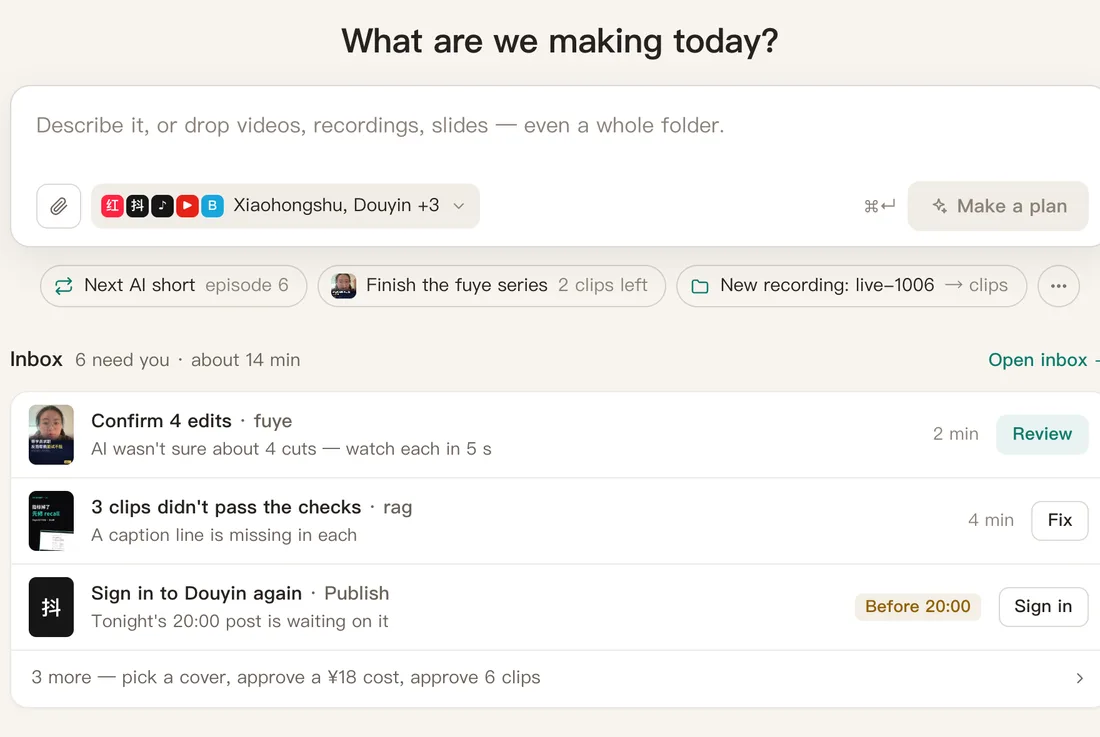
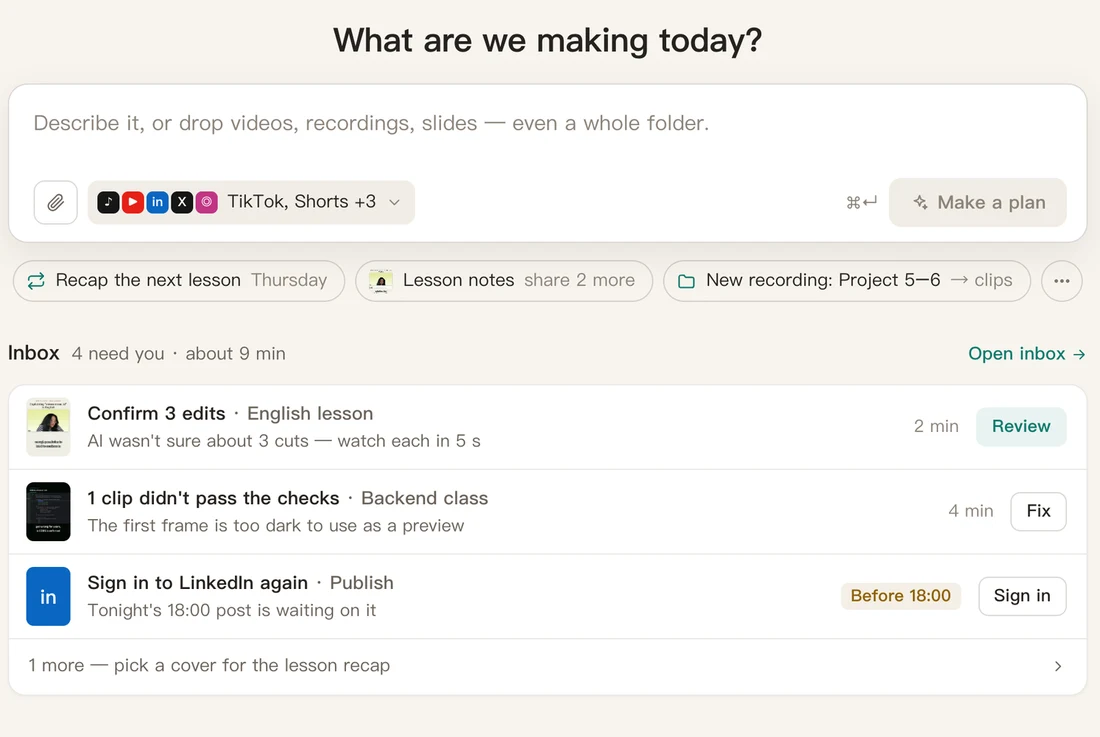
feat(site): show the english demo batch on english pages

diff --git a/apps/site/src/content/usecases.ts b/apps/site/src/content/usecases.ts
@@ -47,7 +47,7 @@ const DATA: Record<UseCaseSlug, Record<Lang, UseCase>> = {
       ],
       faq: [
         { q: 'Does it work with audio-only podcasts?', a: 'Reelfold is built for video. For an audio-only show you need a video track first, such as a still image or a recorded camera feed.' },
-        { q: 'How long can the episode be?', a: 'Long recordings are the point. The batch on our home page started from a 72-minute recording and produced 24 clips.' },
+        { q: 'How long can the episode be?', a: 'Long recordings are the point. The batch on our home page started from a 124-minute recording and produced 9 clips.' },
         { q: 'Can it handle two speakers?', a: 'Yes. Clips can use a vertical, side-by-side or landscape layout, and faces or name labels can be masked if a guest wants that.' },
       ],
       cta: 'Clip your next episode on your own Mac.',
@@ -107,7 +107,7 @@ const DATA: Record<UseCaseSlug, Record<Lang, UseCase>> = {
       ],
       faq: [
         { q: 'Et les podcasts audio seulement ?', a: 'Reelfold est conçu pour la vidéo. Pour une émission audio, il faut d’abord une piste vidéo, par exemple une image fixe ou un plan filmé.' },
-        { q: 'Quelle durée d’épisode ?', a: 'Les longs enregistrements sont justement sa raison d’être. Le lot de la page d’accueil partait d’un enregistrement de 72 minutes et a donné 24 clips.' },
+        { q: 'Quelle durée d’épisode ?', a: 'Les longs enregistrements sont justement sa raison d’être. Le lot de la page d’accueil partait d’un enregistrement de 124 minutes et a donné 9 clips.' },
         { q: 'Et avec deux intervenants ?', a: 'Oui. Les clips peuvent être en vertical, côte à côte ou en paysage, et les visages ou noms d’un invité peuvent être masqués s’il le souhaite.' },
       ],
       cta: 'Découpez votre prochain épisode sur votre Mac.',
@@ -137,7 +137,7 @@ const DATA: Record<UseCaseSlug, Record<Lang, UseCase>> = {
       ],
       faq: [
         { q: '¿Sirve para podcasts solo de audio?', a: 'Reelfold está hecho para video. En un programa solo de audio hace falta primero una pista de video, como una imagen fija o una cámara grabada.' },
-        { q: '¿Cuánto puede durar el episodio?', a: 'Las grabaciones largas son justo su razón de ser. El lote de la página de inicio partió de una grabación de 72 minutos y dio 24 clips.' },
+        { q: '¿Cuánto puede durar el episodio?', a: 'Las grabaciones largas son justo su razón de ser. El lote de la página de inicio partió de una grabación de 124 minutos y dio 9 clips.' },
         { q: '¿Funciona con dos personas hablando?', a: 'Sí. Los clips pueden ir en vertical, lado a lado o en horizontal, y se pueden ocultar caras o rótulos con nombre si un invitado lo pide.' },
       ],
       cta: 'Corta tu próximo episodio en tu propio Mac.',
@@ -292,10 +292,10 @@ const DATA: Record<UseCaseSlug, Record<Lang, UseCase>> = {
       ],
       stepsT: 'A real example',
       steps: [
-        { t: '72 minutes in', b: 'One recorded lecture on retrieval-augmented generation, screen share plus voice.' },
-        { t: '24 clips planned', b: 'Each about a minute, picked for one clear point, with the off-topic parts left out.' },
-        { t: '96 files out', b: 'Four formats per clip: Xiaohongshu 3:4 and 9:16, Douyin and YouTube Shorts.' },
-        { t: '21 of 24 passed', b: 'Three were flagged for a person to check. The AI cost for the whole run was $0.73.' },
+        { t: '124 minutes in', b: 'One recorded backend class in English (auth, JWT, CORS, databases), screen share plus voice.' },
+        { t: '9 clips planned', b: 'Each about a minute, picked for one clear point, with the off-topic parts left out.' },
+        { t: '27 files out', b: 'Three formats per clip: YouTube Shorts, TikTok and Instagram Reels.' },
+        { t: '8 of 9 passed', b: 'One was flagged for a person to check. The AI cost for the whole run was $0.29.' },
       ],
       faq: [
         { q: 'Can I keep a long version too?', a: 'Yes. The same recording can become a cut course video with chapters as well as the short episodes.' },
@@ -352,10 +352,10 @@ const DATA: Record<UseCaseSlug, Record<Lang, UseCase>> = {
       ],
       stepsT: 'Un exemple réel',
       steps: [
-        { t: '72 minutes en entrée', b: 'Un cours enregistré sur le RAG (génération augmentée par la recherche), partage d’écran et voix.' },
-        { t: '24 clips planifiés', b: 'Environ une minute chacun, choisis pour une idée claire, sans les passages hors sujet.' },
-        { t: '96 fichiers en sortie', b: 'Quatre formats par clip : Xiaohongshu 3:4 et 9:16, Douyin et YouTube Shorts.' },
-        { t: '21 sur 24 validés', b: 'Trois ont été signalés pour une vérification humaine. Coût d’IA du lot entier : 0,73 $.' },
+        { t: '124 minutes en entrée', b: 'Un cours de backend enregistré en anglais (authentification, JWT, CORS, bases de données), partage d’écran et voix.' },
+        { t: '9 clips planifiés', b: 'Environ une minute chacun, choisis pour une idée claire, sans les passages hors sujet.' },
+        { t: '27 fichiers en sortie', b: 'Trois formats par clip : YouTube Shorts, TikTok et Instagram Reels.' },
+        { t: '8 sur 9 validés', b: 'Un a été signalé pour une vérification humaine. Coût d’IA du lot entier : 0,29 $.' },
       ],
       faq: [
         { q: 'Puis-je garder une version longue ?', a: 'Oui. Le même enregistrement peut devenir une vidéo de cours montée avec chapitres, en plus des épisodes courts.' },
@@ -382,10 +382,10 @@ const DATA: Record<UseCaseSlug, Record<Lang, UseCase>> = {
       ],
       stepsT: 'Un ejemplo real',
       steps: [
-        { t: '72 minutos de entrada', b: 'Una clase grabada sobre RAG (generación aumentada por recuperación), con pantalla compartida y voz.' },
-        { t: '24 clips planificados', b: 'De un minuto más o menos, cada uno elegido por una idea clara, sin las partes que se salen del tema.' },
-        { t: '96 archivos de salida', b: 'Cuatro formatos por clip: Xiaohongshu 3:4 y 9:16, Douyin y YouTube Shorts.' },
-        { t: '21 de 24 aprobados', b: 'Tres quedaron marcados para que los revisara una persona. El costo de IA de todo el lote fue de 0,73 US$.' },
+        { t: '124 minutos de entrada', b: 'Una clase de backend grabada en inglés (autenticación, JWT, CORS, bases de datos), con pantalla compartida y voz.' },
+        { t: '9 clips planificados', b: 'De un minuto más o menos, cada uno elegido por una idea clara, sin las partes que se salen del tema.' },
+        { t: '27 archivos de salida', b: 'Tres formatos por clip: YouTube Shorts, TikTok e Instagram Reels.' },
+        { t: '8 de 9 aprobados', b: 'Uno quedó marcado para que lo revisara una persona. El costo de IA de todo el lote fue de 0,29 US$.' },
       ],
       faq: [
         { q: '¿Puedo conservar también una versión larga?', a: 'Sí. La misma grabación puede convertirse en un video de curso editado con capítulos, además de los episodios cortos.' },
@@ -546,7 +546,7 @@ const DATA: Record<UseCaseSlug, Record<Lang, UseCase>> = {
         { t: 'Deliver', b: 'Review the flagged few, then hand over the folders or fill each upload page yourself.' },
       ],
       faq: [
-        { q: 'Is there a per-seat or per-minute fee?', a: 'No. Reelfold is free and MIT licensed. You pay only for the AI you connect: the 72-minute batch on our home page cost $0.73.' },
+        { q: 'Is there a per-seat or per-minute fee?', a: 'No. Reelfold is free and MIT licensed. You pay only for the AI you connect: the 124-minute batch on our home page cost $0.29.' },
         { q: 'Can my client publish themselves?', a: 'Yes. The delivery folder has the videos, covers, copy and a schedule. The publishing checklist reminds them to tick each platform’s AI label.' },
         { q: 'Can I script it?', a: 'Yes. The engine underneath is open source and runs from the command line or as a Claude Code skill.' },
       ],
@@ -606,7 +606,7 @@ const DATA: Record<UseCaseSlug, Record<Lang, UseCase>> = {
         { t: 'Livrez', b: 'Relisez les quelques clips signalés, puis remettez les dossiers ou remplissez vous-même chaque page de mise en ligne.' },
       ],
       faq: [
-        { q: 'Y a-t-il un tarif par poste ou à la minute ?', a: 'Non. Reelfold est gratuit et sous licence MIT. Vous ne payez que l’IA que vous branchez : le lot de 72 minutes de la page d’accueil a coûté 0,73 $.' },
+        { q: 'Y a-t-il un tarif par poste ou à la minute ?', a: 'Non. Reelfold est gratuit et sous licence MIT. Vous ne payez que l’IA que vous branchez : le lot de 124 minutes de la page d’accueil a coûté 0,29 $.' },
         { q: 'Mon client peut-il publier lui-même ?', a: 'Oui. Le dossier de livraison contient les vidéos, couvertures, textes et un calendrier. La liste de publication lui rappelle de cocher le label IA de chaque plateforme.' },
         { q: 'Puis-je l’automatiser ?', a: 'Oui. Le moteur est open source et tourne en ligne de commande ou comme skill Claude Code.' },
       ],
@@ -636,7 +636,7 @@ const DATA: Record<UseCaseSlug, Record<Lang, UseCase>> = {
         { t: 'Entrega', b: 'Revisa los pocos marcados y entrega las carpetas, o rellena tú mismo cada página de subida.' },
       ],
       faq: [
-        { q: '¿Se paga por puesto o por minuto?', a: 'No. Reelfold es gratis y tiene licencia MIT. Solo pagas la IA que conectes: el lote de 72 minutos de la página de inicio costó 0,73 US$.' },
+        { q: '¿Se paga por puesto o por minuto?', a: 'No. Reelfold es gratis y tiene licencia MIT. Solo pagas la IA que conectes: el lote de 124 minutos de la página de inicio costó 0,29 US$.' },
         { q: '¿Mi cliente puede publicar por su cuenta?', a: 'Sí. La carpeta de entrega trae los videos, las portadas, los textos y un calendario. La lista de publicación le recuerda marcar la etiqueta de IA de cada plataforma.' },
         { q: '¿Se puede automatizar?', a: 'Sí. El motor es de código abierto y funciona desde la línea de comandos o como skill de Claude Code.' },
       ],

diff --git a/apps/site/src/data/batch.ts b/apps/site/src/data/batch.ts
@@ -1,4 +1,4 @@
-// The real batch shown on the home page (a 72-min RAG lecture, 2026-10-06; source media stays private).
+// The real batch shown on the 中文 home page (a 72-min RAG lecture, 2026-10-06; source media stays private).
 // 24 clips × 4 formats (Xiaohongshu 3:4, Xiaohongshu 9:16, Douyin, YouTube Shorts) = 96 files; $0.73 AI cost;
 // automatic QC: 21 green, 3 red (ep09, ep19, ep21). `start` = where the clip starts in the lecture (segments.yaml).
 // Covers: jobs/<id>/export/out/vertical/ep1/cover_3x4.png, resized into src/assets/clips/.
@@ -15,6 +15,23 @@ export const CLIPS: Clip[] = [
   { id: 'ep14', n: 14, start: 2745.86, flagged: false, title: { zh: '混合检索：RRF只看排名不看分', en: 'Hybrid search: RRF uses rank, not score', fr: 'Recherche hybride : RRF regarde le rang, pas le score', es: 'Búsqueda híbrida: RRF mira el puesto, no la puntuación' } },
   { id: 'ep17', n: 17, start: 3279.2, flagged: false, title: { zh: '金融RAG：加过滤比换模型有用', en: 'Finance RAG: filters beat a bigger model', fr: 'RAG en finance : un filtre vaut mieux qu’un autre modèle', es: 'RAG financiero: un filtro rinde más que otro modelo' } },
   { id: 'ep22', n: 22, start: 3870.46, flagged: false, title: { zh: '查bug两周，最后只改了prompt', en: 'Two weeks of debugging, one prompt change', fr: 'Deux semaines de débogage, un seul prompt modifié', es: 'Dos semanas depurando, un solo cambio de prompt' } },
+];
+
+// English pages (en / fr / es) show the English batch: a 124-min recorded backend class in English (2026-10-07;
+// source media stays private). 9 clips x 3 formats (YouTube Shorts, TikTok, Instagram Reels) = 27 files; $0.29 AI API spend
+// (gpt-4.1 caption glossary + proofreading; switched off for the final captions after it mis-fixed common
+// English words, so the captions are local Whisper + a term list); 8 of 9 passed every check on their own, ep03 was flagged (dark first frame) and
+// fixed with a longer chapter title. Covers: the batch's cover_3x4 per clip, resized into src/assets/clips/en-*.jpg.
+// ep02 is left out of the sheet (its screen shows a test token payload).
+export const CLIPS_EN: Clip[] = [
+  { id: 'en-ep01', n: 1, start: 2559.67, flagged: false, title: { zh: '既然每次都查用户，为什么还用 JWT？', en: 'If you query the user anyway, why JWT?', fr: 'Si on relit l’utilisateur à chaque fois, pourquoi un JWT ?', es: 'Si igual consultas al usuario, ¿para qué JWT?' } },
+  { id: 'en-ep03', n: 3, start: 2875.24, flagged: true, title: { zh: 'CORS 由浏览器执行，而不是服务器', en: 'CORS is enforced by the browser, not your server', fr: 'CORS est appliqué par le navigateur, pas par le serveur', es: 'CORS lo aplica el navegador, no tu servidor' } },
+  { id: 'en-ep04', n: 4, start: 5505.53, flagged: false, title: { zh: '面试里的诚实回答：MySQL 8 有 JSON 列', en: 'The honest answer: MySQL 8 has a JSON column', fr: 'La réponse honnête : MySQL 8 a une colonne JSON', es: 'La respuesta honesta: MySQL 8 tiene columna JSON' } },
+  { id: 'en-ep05', n: 5, start: 5123.71, flagged: false, title: { zh: '让 AI 优化慢查询，再用 EXPLAIN 验证', en: 'Ask AI to fix a slow query, then check EXPLAIN', fr: 'Demandez à l’IA, puis vérifiez avec EXPLAIN', es: 'Pide a la IA el índice y verifica con EXPLAIN' } },
+  { id: 'en-ep06', n: 6, start: 5042.73, flagged: false, title: { zh: '每加一个索引，写入就更慢', en: 'Every index makes writes slower', fr: 'Chaque index ralentit les écritures', es: 'Cada índice hace más lentas las escrituras' } },
+  { id: 'en-ep07', n: 7, start: 474.92, flagged: false, title: { zh: '存密码的两条规则', en: 'Two rules for storing passwords', fr: 'Deux règles pour stocker les mots de passe', es: 'Dos reglas para guardar contraseñas' } },
+  { id: 'en-ep08', n: 8, start: 1773.96, flagged: false, title: { zh: 'JWT 被盗？短令牌加刷新令牌', en: 'Stolen JWT? Short access token + refresh token', fr: 'JWT volé ? Jeton court et jeton de rafraîchissement', es: '¿JWT robado? Token corto y token de refresco' } },
+  { id: 'en-ep09', n: 9, start: 6285.51, flagged: false, title: { zh: 'CAP 定理：你从来不是“三选二”', en: 'CAP theorem: you never actually pick two', fr: 'Théorème CAP : on ne choisit jamais deux sur trois', es: 'Teorema CAP: nunca eliges dos de tres' } },
 ];
 
 export const tc = (s: number) => {

diff --git a/apps/site/src/i18n/fr.ts b/apps/site/src/i18n/fr.ts
@@ -35,8 +35,8 @@ export const fr: Dict = {
     h1a: 'Un enregistrement.',
     h1b: 'Toutes les plateformes.',
     sub: 'Reelfold transforme une longue vidéo en clips prêts pour vingt plateformes. Décrivez ce que vous voulez en une phrase. Il prévoit les coupes, fait tourner tout le lot sur votre Mac, et ne vous montre que les clips signalés par ses contrôles.',
-    fig: 'Accueil. Six choses vous attendent, environ quatorze minutes.',
-    figAlt: 'L’accueil de Reelfold : une zone de demande, une boîte de réception de six éléments à traiter, et les lots en cours sur ce Mac.',
+    fig: 'Accueil. Quatre choses vous attendent, environ neuf minutes.',
+    figAlt: 'L’accueil de Reelfold : une zone de demande, une boîte de réception de quatre éléments à traiter, et les lots en cours sur ce Mac.',
   },
   fig: 'Fig.',
   how: {
@@ -67,19 +67,19 @@ export const fr: Dict = {
   batch: {
     k: 'Un vrai lot',
     t: 'Un cours, mesuré.',
-    l: 'Un cours enregistré de 72 minutes, traité une fois, du début à la fin. Vos chiffres varieront selon la durée et le modèle.',
+    l: 'Un cours de backend enregistré en anglais, 124 minutes, découpé en lot sur un seul Mac. Vos chiffres varieront selon la durée et le modèle.',
     nums: [
-      { v: '72', u: 'min', l: 'un cours enregistré en entrée' },
-      { v: '24', u: '', l: 'clips planifiés et coupés' },
-      { v: '96', u: '', l: 'fichiers en sortie, 24 clips × 4 formats' },
-      { v: '0,73 $', u: '', l: 'coût total de l’IA pour ce lot' },
-      { v: '21', u: '/24', l: 'ont passé tous les contrôles seuls' },
+      { v: '124', u: 'min', l: 'un cours enregistré en entrée' },
+      { v: '9', u: '', l: 'clips planifiés et coupés' },
+      { v: '27', u: '', l: 'fichiers en sortie, 9 clips × 3 formats' },
+      { v: '0,29 $', u: '', l: 'coût total de l’IA pour ce lot' },
+      { v: '8', u: '/9', l: 'ont passé tous les contrôles seuls' },
     ],
-    foot: 'Les trois autres ont été signalés pour qu’une personne y jette un œil. Tout le reste était prêt à publier.',
+    foot: 'Le dernier a été signalé pour qu’une personne y jette un œil : sa première image était trop sombre pour un aperçu. Un titre de chapitre plus long a suffi.',
     passed: 'validé',
     flagged: 'signalé',
-    cap: '8 des 24 clips, avec leur point de départ dans le cours',
-    clipAlt: 'Couverture du clip {n} sur 24 : « {title} »',
+    cap: '8 des 9 clips, avec leur point de départ dans le cours',
+    clipAlt: 'Couverture du clip {n} sur 9 : « {title} »',
   },
   plat: {
     k: 'Plateformes',
@@ -119,7 +119,7 @@ export const fr: Dict = {
     k: 'FAQ',
     t: 'Questions, réponses franches.',
     items: [
-      { q: 'C’est vraiment gratuit ?', a: 'Oui. Reelfold est sous licence MIT et gratuit. Le seul coût, c’est l’IA que vous branchez : le cours de 72 minutes ci-dessus a coûté 0,73 $. Avec un abonnement que vous avez déjà, ou un modèle local, aucune facture en plus.' },
+      { q: 'C’est vraiment gratuit ?', a: 'Oui. Reelfold est sous licence MIT et gratuit. Le seul coût, c’est l’IA que vous branchez : le cours de 124 minutes ci-dessus a coûté 0,29 $. Avec un abonnement que vous avez déjà, ou un modèle local, aucune facture en plus.' },
       { q: 'De quoi ai-je besoin ?', a: 'D’un Mac Apple Silicon et d’une IA : un abonnement Claude Code ou Codex, une clé d’API, ou un modèle local. Une version Windows viendra plus tard.' },
       { q: 'Ma vidéo quitte-t-elle mon Mac ?', a: 'Les coupes et le rendu se font sur votre Mac. L’IA que vous branchez voit ce dont elle a besoin pour planifier, comme la transcription, selon les conditions de ce fournisseur. Avec un modèle local, rien ne sort.' },
       { q: 'Publie-t-il à ma place ?', a: 'Non. Il prépare chaque page de mise en ligne avec la vidéo, la couverture et le texte. Vous vérifiez, puis vous cliquez sur « Publier ».' },

diff --git a/apps/site/src/i18n/es.ts b/apps/site/src/i18n/es.ts
@@ -35,8 +35,8 @@ export const es: Dict = {
     h1a: 'Una grabación.',
     h1b: 'Todas las plataformas.',
     sub: 'Reelfold convierte un video largo en clips listos para veinte plataformas. Describe lo que quieres en una frase. Planifica los cortes, procesa todo el lote en tu Mac y solo te pregunta por los clips que sus controles marcan.',
-    fig: 'Inicio. Seis cosas te esperan, unos catorce minutos.',
-    figAlt: 'La pantalla de inicio de Reelfold: un cuadro de petición, una bandeja con seis tareas pendientes y los lotes que se están procesando en este Mac.',
+    fig: 'Inicio. Cuatro cosas te esperan, unos nueve minutos.',
+    figAlt: 'La pantalla de inicio de Reelfold: un cuadro de petición, una bandeja con cuatro tareas pendientes y los lotes que se están procesando en este Mac.',
   },
   fig: 'Fig.',
   how: {
@@ -67,19 +67,19 @@ export const es: Dict = {
   batch: {
     k: 'Un lote real',
     t: 'Una clase, medida.',
-    l: 'Una clase grabada de 72 minutos, procesada una vez de principio a fin. Tus números variarán según la duración y el modelo.',
+    l: 'Una clase de backend grabada en inglés, de 124 minutos, convertida en un lote en un solo Mac. Tus números variarán según la duración y el modelo.',
     nums: [
-      { v: '72', u: 'min', l: 'una clase grabada de entrada' },
-      { v: '24', u: '', l: 'clips planificados y cortados' },
-      { v: '96', u: '', l: 'archivos de salida, 24 clips × 4 formatos' },
-      { v: '0,73 US$', u: '', l: 'costo total de IA del lote' },
-      { v: '21', u: '/24', l: 'pasaron todos los controles solos' },
+      { v: '124', u: 'min', l: 'una clase grabada de entrada' },
+      { v: '9', u: '', l: 'clips planificados y cortados' },
+      { v: '27', u: '', l: 'archivos de salida, 9 clips × 3 formatos' },
+      { v: '0,29 US$', u: '', l: 'costo total de IA del lote' },
+      { v: '8', u: '/9', l: 'pasaron todos los controles solos' },
     ],
-    foot: 'Los otros tres quedaron marcados para que una persona les echara un vistazo. Todo lo demás estaba listo para publicar.',
+    foot: 'El otro quedó marcado para que una persona le echara un vistazo: su primer fotograma era demasiado oscuro para la vista previa. Un título de capítulo más largo lo resolvió.',
     passed: 'aprobado',
     flagged: 'marcado',
-    cap: '8 de los 24 clips, con el minuto en que empieza cada uno en la clase',
-    clipAlt: 'Portada del clip {n} de 24: “{title}”',
+    cap: '8 de los 9 clips, con el minuto en que empieza cada uno en la clase',
+    clipAlt: 'Portada del clip {n} de 9: “{title}”',
   },
   plat: {
     k: 'Plataformas',
@@ -119,7 +119,7 @@ export const es: Dict = {
     k: 'Preguntas',
     t: 'Preguntas, respuestas claras.',
     items: [
-      { q: '¿De verdad es gratis?', a: 'Sí. Reelfold tiene licencia MIT y es gratis. El único costo es la IA que conectes: la clase de 72 minutos de arriba costó 0,73 US$. Con una suscripción que ya tengas, o con un modelo local, no hay factura extra.' },
+      { q: '¿De verdad es gratis?', a: 'Sí. Reelfold tiene licencia MIT y es gratis. El único costo es la IA que conectes: la clase de 124 minutos de arriba costó 0,29 US$. Con una suscripción que ya tengas, o con un modelo local, no hay factura extra.' },
       { q: '¿Qué necesito?', a: 'Un Mac con Apple Silicon y una IA: una suscripción de Claude Code o Codex, una clave de API o un modelo local. La versión para Windows llegará más adelante.' },
       { q: '¿Mi video sale de mi Mac?', a: 'Los cortes y el renderizado se hacen en tu Mac. La IA que conectes ve lo que necesita para planificar, como la transcripción, según las condiciones de ese proveedor. Con un modelo local, no sale nada.' },
       { q: '¿Publica por mí?', a: 'No. Prepara cada página de subida con el video, la portada y el texto. Tú lo revisas y pulsas publicar.' },

diff --git a/apps/site/src/i18n/en.ts b/apps/site/src/i18n/en.ts
@@ -34,8 +34,8 @@ export const en = {
     h1a: 'One recording.',
     h1b: 'Every platform.',
     sub: 'Reelfold turns a long video into clips ready for twenty platforms. Describe what you want in a sentence. It plans the cuts, runs the whole batch on your Mac, and only asks you about the clips its checks flag.',
-    fig: 'Home. Six things need you, about fourteen minutes.',
-    figAlt: 'The Reelfold home screen: a request box, an inbox of six items that need a person, and the batches running on this Mac.',
+    fig: 'Home. Four things need you, about nine minutes.',
+    figAlt: 'The Reelfold home screen: a request box, an inbox of four items that need a person (an English lesson, a backend class), and the batches running on this Mac.',
   },
   fig: 'Fig.',
   how: {
@@ -65,20 +65,20 @@ export const en = {
   },
   batch: {
     k: 'A real batch',
-    t: 'One lecture, measured.',
-    l: 'A 72-minute recorded lecture, run once, start to finish. Your numbers will vary with length and model.',
+    t: 'One class, measured.',
+    l: 'A 124-minute recorded backend class in English, cut into a batch on one Mac. Your numbers will vary with length and model.',
     nums: [
-      { v: '72', u: 'min', l: 'one recorded lecture in' },
-      { v: '24', u: '', l: 'clips planned and cut' },
-      { v: '96', u: '', l: 'files out, 24 clips × 4 formats' },
-      { v: '$0.73', u: '', l: 'total AI cost for the run' },
-      { v: '21', u: '/24', l: 'passed every check on their own' },
+      { v: '124', u: 'min', l: 'one recorded class in' },
+      { v: '9', u: '', l: 'clips planned and cut' },
+      { v: '27', u: '', l: 'files out, 9 clips × 3 formats' },
+      { v: '$0.29', u: '', l: 'total AI cost for the run' },
+      { v: '8', u: '/9', l: 'passed every check on their own' },
     ],
-    foot: 'The other three were flagged for a person to look at. Everything else was ready to post.',
+    foot: 'The other one was flagged for a person to look at: its first frame was too dark for a preview. A longer chapter title fixed it.',
     passed: 'passed',
     flagged: 'flagged',
-    cap: '8 of the 24 clips, with where each starts in the lecture',
-    clipAlt: 'Cover of clip {n} of 24: “{title}”',
+    cap: '8 of the 9 clips, with where each starts in the class',
+    clipAlt: 'Cover of clip {n} of 9: “{title}”',
   },
   plat: {
     k: 'Platforms',
@@ -118,7 +118,7 @@ export const en = {
     k: 'FAQ',
     t: 'Questions, answered plainly.',
     items: [
-      { q: 'Is it really free?', a: 'Yes. Reelfold is MIT licensed and free to use. The only cost is the AI you connect: the 72-minute lecture above used $0.73. With a subscription you already have, or a local model, there’s no extra bill.' },
+      { q: 'Is it really free?', a: 'Yes. Reelfold is MIT licensed and free to use. The only cost is the AI you connect: the 124-minute class above used $0.29. With a subscription you already have, or a local model, there’s no extra bill.' },
       { q: 'What do I need?', a: 'A Mac with Apple Silicon, and an AI: a Claude Code or Codex subscription, an API key, or a local model. A Windows version comes later.' },
       { q: 'Does my video leave my Mac?', a: 'Cutting and rendering happen on your Mac. The AI you connect sees what it needs to plan, such as the transcript, under that provider’s terms. With a local model, nothing leaves.' },
       { q: 'Will it post for me?', a: 'No. It prepares each upload page with the video, cover and copy filled in. You check it and press publish.' },

diff --git a/apps/site/src/content/compare.ts b/apps/site/src/content/compare.ts
@@ -100,7 +100,7 @@ const DATA: Record<CompareSlug, CompareEntry> = {
         weT: 'Where Reelfold is different',
         we: [
           { t: 'Local and private', b: 'Cutting and rendering happen on your Mac. There is no upload queue and no per-minute credit.' },
-          { t: 'Your own AI', b: 'Use a Claude Code or Codex subscription, an API key or a local model. The 72-minute batch on our home page cost $0.73.' },
+          { t: 'Your own AI', b: 'Use a Claude Code or Codex subscription, an API key or a local model. The 124-minute batch on our home page cost $0.29.' },
           { t: 'Chinese platforms', b: 'Profiles for Xiaohongshu, Douyin, WeChat Channels, Bilibili, Kuaishou, Weibo and Zhihu, plus Chinese captions and fillers.' },
           { t: 'Open source', b: 'MIT licensed. Read the code, change a workflow, or run the engine as a Claude Code skill.' },
         ],
@@ -164,7 +164,7 @@ const DATA: Record<CompareSlug, CompareEntry> = {
         weT: 'Ce qui distingue Reelfold',
         we: [
           { t: 'Local et privé', b: 'Coupes et rendu se font sur votre Mac. Pas de file d’envoi, pas de crédit à la minute.' },
-          { t: 'Votre propre IA', b: 'Un abonnement Claude Code ou Codex, une clé d’API ou un modèle local. Le lot de 72 minutes de notre page d’accueil a coûté 0,73 $.' },
+          { t: 'Votre propre IA', b: 'Un abonnement Claude Code ou Codex, une clé d’API ou un modèle local. Le lot de 124 minutes de notre page d’accueil a coûté 0,29 $.' },
           { t: 'Plateformes chinoises', b: 'Profils pour Xiaohongshu, Douyin, WeChat Channels, Bilibili, Kuaishou, Weibo et Zhihu, avec sous-titres et hésitations en chinois.' },
           { t: 'Open source', b: 'Licence MIT. Lisez le code, modifiez un workflow, ou utilisez le moteur comme skill Claude Code.' },
         ],
@@ -196,7 +196,7 @@ const DATA: Record<CompareSlug, CompareEntry> = {
         weT: 'En qué es distinto Reelfold',
         we: [
           { t: 'Local y privado', b: 'Los cortes y el renderizado se hacen en tu Mac. Sin colas de subida ni créditos por minuto.' },
-          { t: 'Tu propia IA', b: 'Una suscripción de Claude Code o Codex, una clave de API o un modelo local. El lote de 72 minutos de nuestra página de inicio costó 0,73 US$.' },
+          { t: 'Tu propia IA', b: 'Una suscripción de Claude Code o Codex, una clave de API o un modelo local. El lote de 124 minutos de nuestra página de inicio costó 0,29 US$.' },
           { t: 'Plataformas chinas', b: 'Perfiles para Xiaohongshu, Douyin, WeChat Channels, Bilibili, Kuaishou, Weibo y Zhihu, con subtítulos y muletillas en chino.' },
           { t: 'Código abierto', b: 'Licencia MIT. Lee el código, cambia un flujo de trabajo o usa el motor como skill de Claude Code.' },
         ],

diff --git a/apps/site/src/lib/images.ts b/apps/site/src/lib/images.ts
@@ -1,4 +1,5 @@
-// Image registry: per-language app screenshots (zh has its own UI language; fr/es use the English app).
+// Image registry: per-language app screenshots and demo sheets (zh has its own UI language and the Chinese
+// material; en/fr/es use the English app and the English demo batch).
 import type { ImageMetadata } from 'astro';
 import homeEn from '../assets/app/home-en.png';
 import homeZh from '../assets/app/home-zh.png';
@@ -14,6 +15,8 @@ import texteditZh from '../assets/app/textedit-zh.png';
 import typing from '../assets/app/typing.png';
 import longform from '../assets/demos/longform-slices.jpg';
 import talkinghead from '../assets/demos/talkinghead.jpg';
+import longformEn from '../assets/demos/longform-slices-en.jpg';
+import talkingheadEn from '../assets/demos/talkinghead-en.jpg';
 import type { Lang } from '../i18n';
 
 const SETS = {
@@ -24,8 +27,8 @@ const SETS = {
   create: { en: createEn, zh: createZh },
   textedit: { en: texteditEn, zh: texteditZh },
   typing: { en: typing, zh: typing },
-  longform: { en: longform, zh: longform },
-  talkinghead: { en: talkinghead, zh: talkinghead },
+  longform: { en: longformEn, zh: longform },
+  talkinghead: { en: talkingheadEn, zh: talkinghead },
 } satisfies Record<string, { en: ImageMetadata; zh: ImageMetadata }>;
 export type ImgKey = keyof typeof SETS;
 export const img = (key: ImgKey, lang: Lang): ImageMetadata => (lang === 'zh' ? SETS[key].zh : SETS[key].en);
